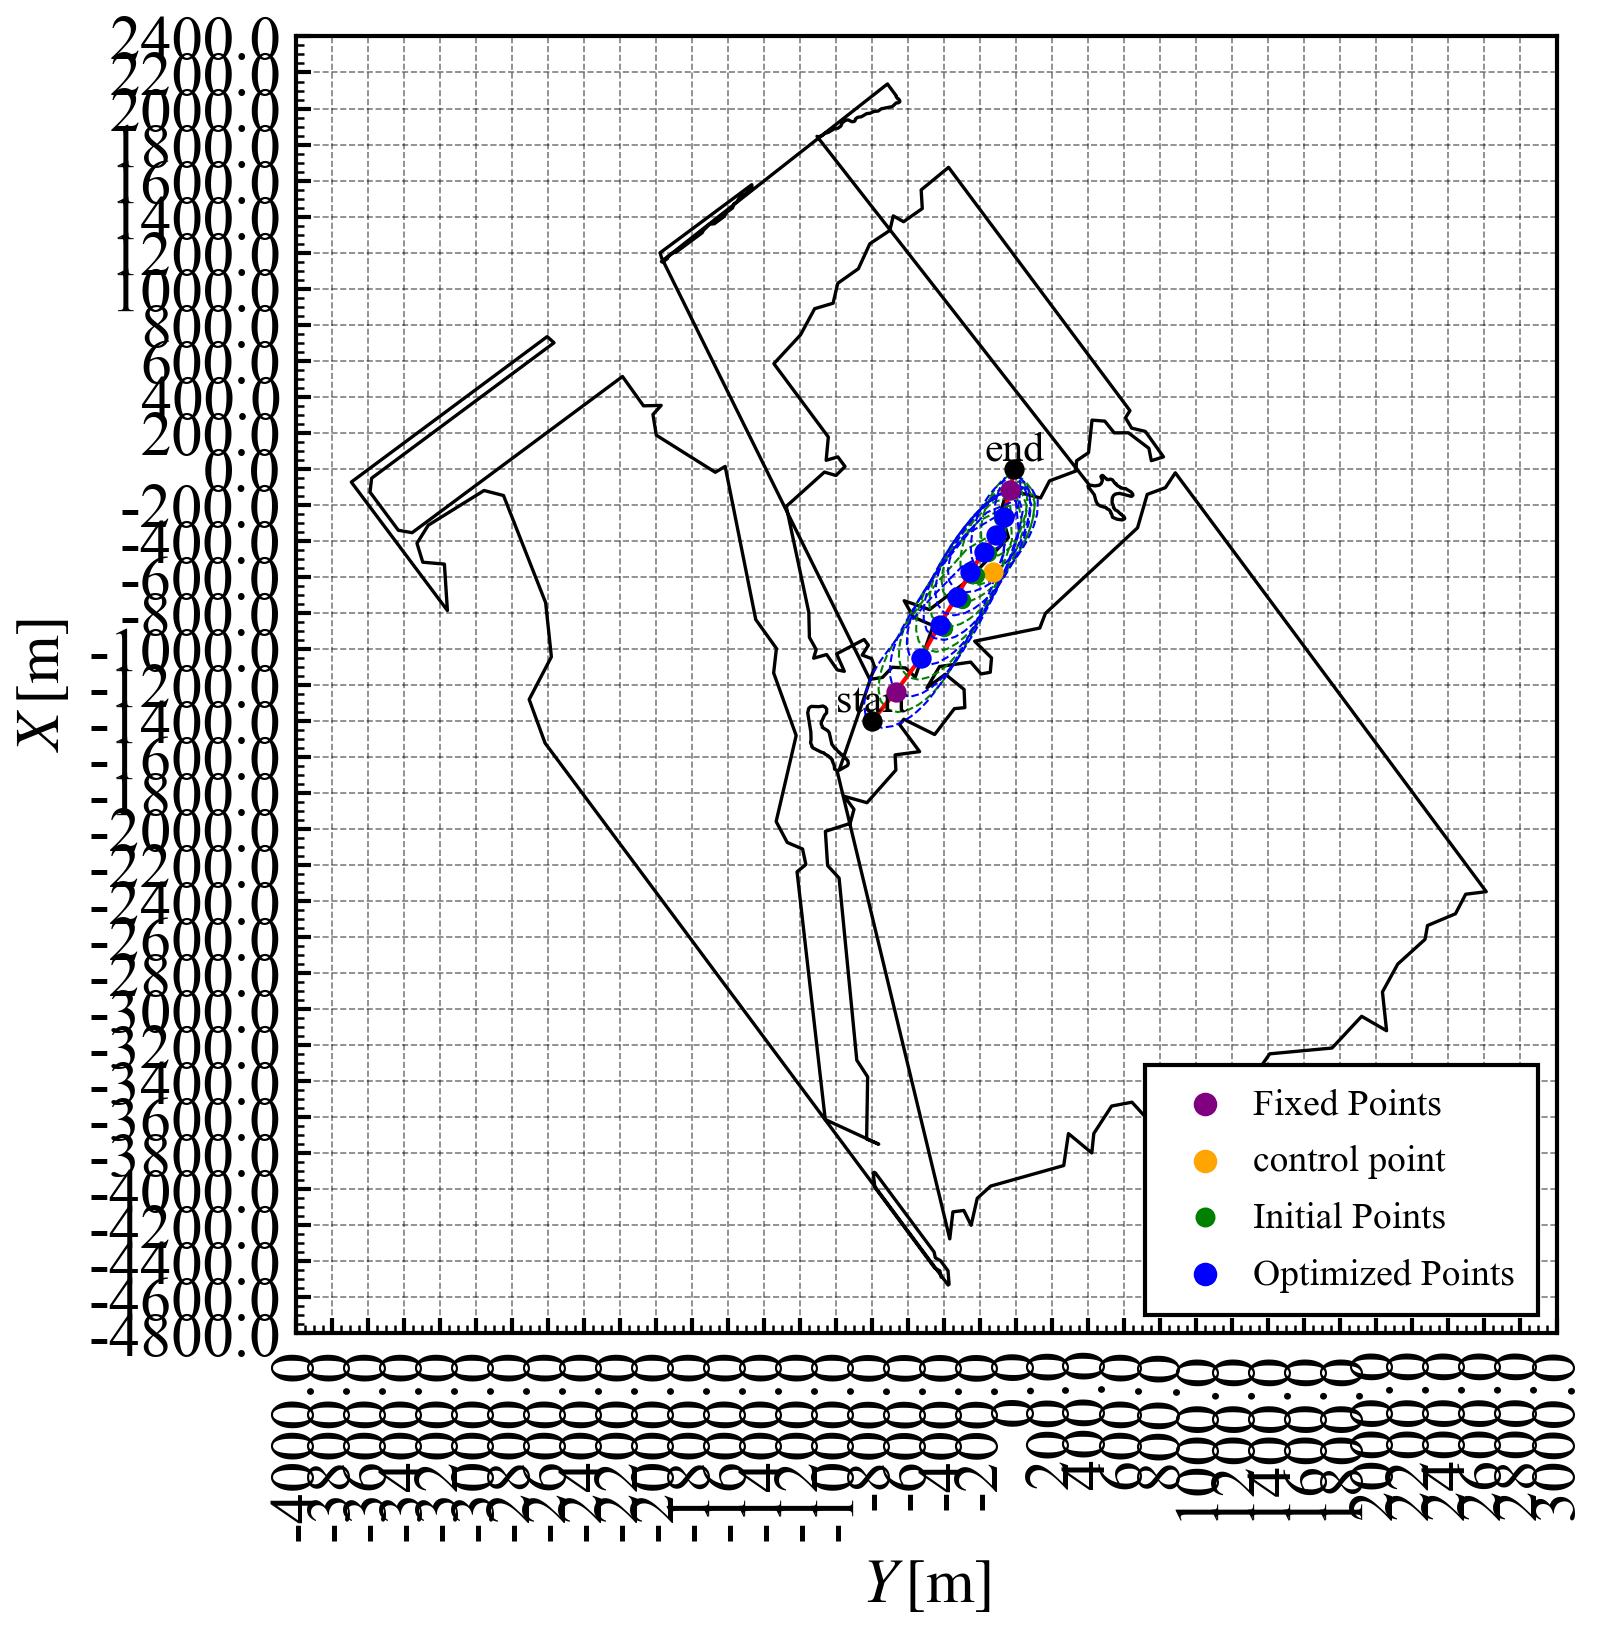
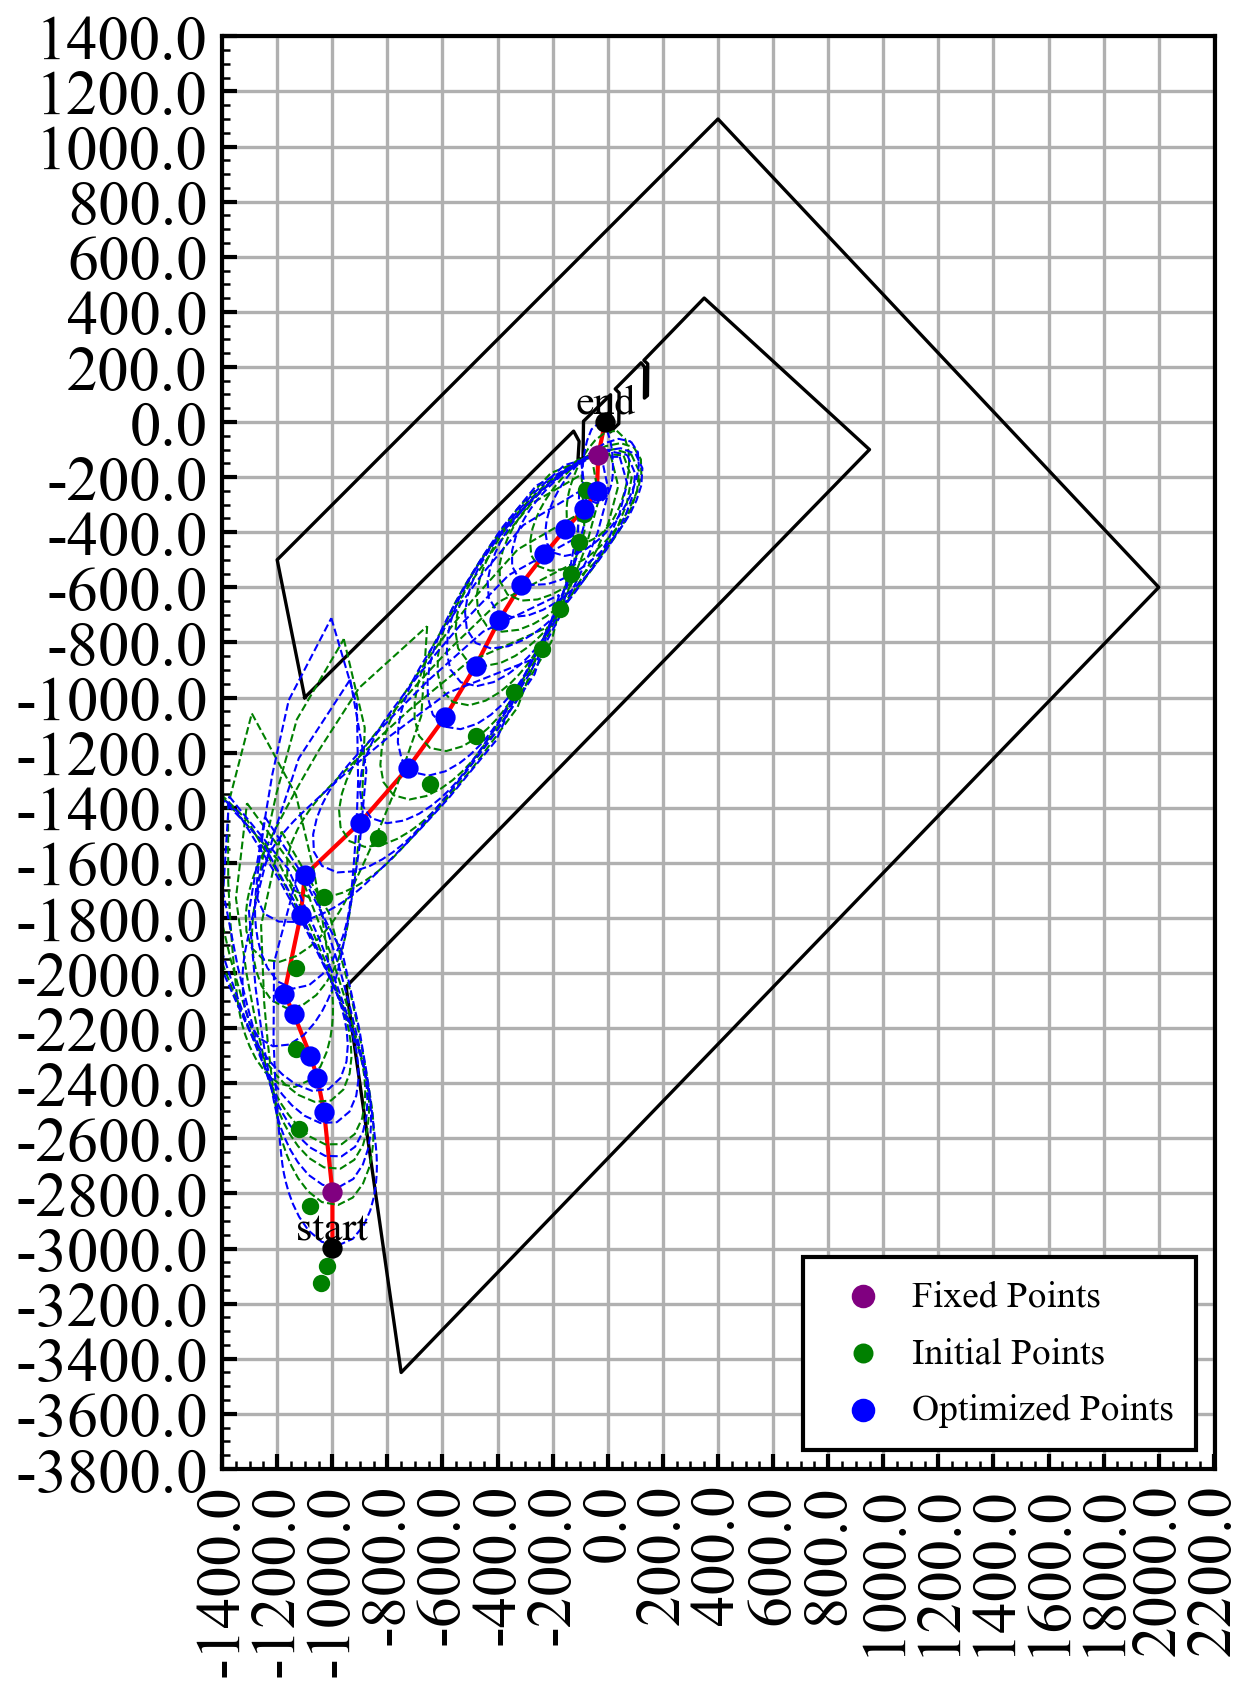
種市の手法で堺試したけどダメぽ。 ベジェじゃない方法を考えよう

Changed region(s): [[0.0, 0.0, 0.9928, 1.0]]

diff --git a/program/utils/PP/dictionary_of_port.py b/program/utils/PP/dictionary_of_port.py
@@ -17,8 +17,8 @@ def dictionary():
                 "annotations": {
                     "approach_start": {
                         "text": "approach start",
-                        "xytext": (-15, 0),
-                        "ha": "right",
+                        "xytext": (10, 0),
+                        "ha": "left",
                         "va": "center",
                     },
                     "berth_start": {
@@ -35,9 +35,9 @@ def dictionary():
                     },
                     "turn_end": {
                         "text": "berthing end",
-                        "xytext": (0, -5),
+                        "xytext": (10, 0),
                         "ha": "left",
-                        "va": "top",
+                        "va": "center",
                     },
                 },
             },

diff --git a/program/path_planning/CMA-ES.py b/program/path_planning/CMA-ES.py
@@ -73,7 +73,7 @@ class SD_contact_judge(StrEnum):
 class Settings:
     def __init__(self):
         # port
-        self.port_number: int = 2
+        self.port_number: int = 0
          # 0: Osaka_1A, 1: Tokyo_2C, 2: Yokkaichi_2B, 3: Else_1, 4: Osaka_1B
          # 5: Else_2, 6: Kashima, 7: Aomori, 8: Hachinohe, 9: Shimizu
          # 10: Tomakomai, 11: KIX
@@ -1410,9 +1410,9 @@ class PathPlanning:
             0: {
                 "name": "Osaka_port1A",
                 "buoy": "1-堺",
-                "start": [-1400.0, -800.0],
+                "start": [-3000.0, -1000.0],
                 "end": [0.0, -10.0],
-                "psi_start": 40,
+                "psi_start": 0,
                 "psi_end": 10,
                 "berth_type": 2,
                 "ver_range": [-1500, 500],

diff --git a/program/path_planning/CMA-ES3.py b/program/path_planning/CMA-ES3.py
@@ -33,7 +33,7 @@ theta_list = np.arange(np.deg2rad(0), np.deg2rad(360), np.deg2rad(3))
 class Setting:
     def __init__(self):
         # port
-        self.port_number: int = 6
+        self.port_number: int = 0
          # 0: Osaka_1A, 1: Tokyo_2C, 2: Yokkaichi_2B, 3: Else_1, 4: Osaka_1B
          # 5: Else_2, 6: Kashima, 7: Aomori, 8: Hachinohe, 9: Shimizu
          # 10: Tomakomai, 11: KIX
